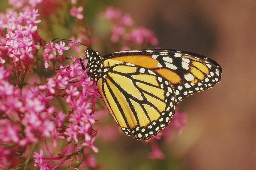
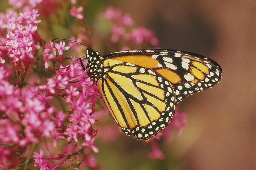
Dorada interpolacionih metoda

diff --git a/src/main.py b/src/main.py
@@ -10,7 +10,12 @@ def main():
     img = load_image("user/input/input_image.png")
     print(f"\nOriginal slika shape: {img.shape}")
 
-    opcija=int(input("Opcija: "))
+    print("\n========== Upscaling ==========")
+    print("1 Bilinearna interpolacija")
+    print("2 Bikubna interpolacija")
+    print("3 Spline interpolacija")
+    print("===============================")
+    opcija=int(input("Izaberite opciju za upscaling: "))
 
     # 1. Upscaling - OVO ĆE RADITI
     print("\nUpscaling...")
@@ -27,23 +32,34 @@ def main():
         img_spline = spline_interpolation(img)
         save_image(img_spline, "user/output/output_spline.png")
 
-    print("Upscaled slika sačuvana.")
+    print("Upscaled slika je sačuvana.")
 
-    # # 2. Rekonstrukcija - OVO ĆE RADITI
-    # print("Rekonstrukcija nedostajućih piksela...")
-    # h, w, _ = img.shape
-    # missing_mask = np.random.rand(h, w) > 0.9
-    # img_missing = img.copy()
-    # img_missing[missing_mask == 1] = 0
+    h, w, _ = img.shape
+    missing_mask = np.random.rand(h, w) > 0.9
+    img_missing = img.copy()
+    img_missing[missing_mask == 1] = 0
 
-    # recon_bilinear = bilinear_interpolation(img_missing, missing_mask=missing_mask)
-    # recon_bicubic = bicubic_interpolation(img_missing, missing_mask=missing_mask)
-    # recon_spline = spline_interpolation(img_missing, missing_mask=missing_mask)
+    print("\n===== Rekonstrukcija piksela =====")
+    print("1 Bilinearna rekonstrukcija")
+    print("2 Bikubna rekonstrukcija")
+    print("3 Spline rekonstrukcija")
+    print("===================================")
+    opcija=int(input("\nOpcija za rekonstrukciju piksela: "))
+    print("\nRekonstrukcija nedostajućih piksela...")
 
-    # save_image(recon_bilinear, "user/output_recon/recon_bilinear.png")
-    # save_image(recon_bicubic, "user/output_recon/recon_bicubic.png")
-    # save_image(recon_spline, "user/output_recon/recon_spline.png")
-    # print("Rekonstruisane slike sačuvane.")
+    if opcija==1:
+        recon_bilinear = bilinear_interpolation(img_missing, missing_mask=missing_mask)
+        save_image(recon_bilinear, "user/output_recon/recon_bilinear.png")
+
+    if opcija==2:
+        recon_bicubic = bicubic_interpolation(img_missing, missing_mask=missing_mask)
+        save_image(recon_bicubic, "user/output_recon/recon_bicubic.png")
+
+    if opcija==3:
+        recon_spline = spline_interpolation(img_missing, missing_mask=missing_mask)
+        save_image(recon_spline, "user/output_recon/recon_spline.png")
+
+    print("Rekonstruisana slika je sačuvana.\n")
 
 if __name__ == "__main__":
     main()

diff --git a/src/interpolation/bicubic.py b/src/interpolation/bicubic.py
@@ -1,4 +1,5 @@
 import numpy as np
+from collections import defaultdict
 
 def cubic_interpolate(p, x):
     """
@@ -169,7 +170,6 @@ def bicubic_reconstruct_channel_optimized(channel, missing_mask):
         return output
     
     # Grupiši po redovima za bolju lokalnost
-    from collections import defaultdict
     rows_dict = defaultdict(list)
     
     for idx in range(len(missing_y)):
@@ -188,21 +188,31 @@ def bicubic_reconstruct_channel_optimized(channel, missing_mask):
             neighborhood = channel[y_min:y_max, x_min:x_max]
             neighborhood_mask = missing_mask[y_min:y_max, x_min:x_max]
             
+            # Ravnaj oba niza za indeksiranje
+            neighborhood_flat = neighborhood.ravel()
+            neighborhood_mask_flat = neighborhood_mask.ravel()
+            
             # Ukloni nedostajuće piksele
-            valid_values = neighborhood[~neighborhood_mask]
+            valid_values = neighborhood_flat[~neighborhood_mask_flat]
             
             if len(valid_values) > 0:
                 # Ponderisani prosek (bliži pikseli imaju veću težinu)
-                # Kreiraj težine na osnovu udaljenosti
-                center_y, center_x = y - y_min, x - x_min
-                distances = np.sqrt(
-                    (np.arange(neighborhood.shape[0]) - center_y)**2 + 
-                    (np.arange(neighborhood.shape[1]) - center_x)**2
+                # Kreiraj mrežu koordinata za celu okolinu
+                y_coords, x_coords = np.meshgrid(
+                    np.arange(y_min, y_max),
+                    np.arange(x_min, x_max),
+                    indexing='ij'
                 )
-                distances = distances[~neighborhood_mask]
+                
+                # Izračunaj udaljenosti od centra
+                distances = np.sqrt((y_coords - y)**2 + (x_coords - x)**2)
+                distances_flat = distances.ravel()
+                
+                # Ukloni nedostajuće piksele iz udaljenosti
+                valid_distances = distances_flat[~neighborhood_mask_flat]
                 
                 # Inverzna težinska funkcija
-                weights = 1.0 / (distances + 1e-6)
+                weights = 1.0 / (valid_distances + 1e-6)
                 weights = weights / np.sum(weights)
                 
                 output[y, x] = np.dot(valid_values, weights)

diff --git a/src/interpolation/spline.py b/src/interpolation/spline.py
@@ -29,7 +29,7 @@ def spline_upscale_fast(image, scale_factor):
             x_new = np.linspace(0, w-1, new_w)
             
             for row in range(h):
-                # Koristi NumPy interpolaciju za brzinu (linear je dovoljno brz)
+                # Koristi NumPy interpolaciju za brzinu
                 temp[row, :] = np.interp(x_new, x_old, channel[row, :])
             
             # 2. Interpolacija po kolonama
@@ -108,12 +108,16 @@ def spline_reconstruct_channel_fast(channel, missing_mask):
             neighborhood = output[i_min:i_max, j_min:j_max]
             neighborhood_mask = remaining_mask[i_min:i_max, j_min:j_max]
             
+            # Ravnaj za indeksiranje
+            neighborhood_flat = neighborhood.ravel()
+            neighborhood_mask_flat = neighborhood_mask.ravel()
+            
             # Broj validnih suseda
-            valid_count = np.sum(~neighborhood_mask)
+            valid_count = np.sum(~neighborhood_mask_flat)
             
             if valid_count >= 3:
                 # Izračunaj vrednost na osnovu suseda
-                valid_values = neighborhood[~neighborhood_mask]
+                valid_values = neighborhood_flat[~neighborhood_mask_flat]
                 output[i, j] = np.mean(valid_values)
                 remaining_mask[i, j] = False
                 filled_count += 1
@@ -138,7 +142,11 @@ def spline_reconstruct_channel_fast(channel, missing_mask):
             neighborhood = output[i_min:i_max, j_min:j_max]
             neighborhood_mask = remaining_mask[i_min:i_max, j_min:j_max]
             
-            valid_values = neighborhood[~neighborhood_mask]
+            # Ravnaj za indeksiranje
+            neighborhood_flat = neighborhood.ravel()
+            neighborhood_mask_flat = neighborhood_mask.ravel()
+            
+            valid_values = neighborhood_flat[~neighborhood_mask_flat]
             
             if len(valid_values) > 0:
                 output[i, j] = np.mean(valid_values)

diff --git a/src/interpolation/bilinear.py b/src/interpolation/bilinear.py
@@ -2,7 +2,7 @@ import numpy as np
 
 def bilinear_interpolation(image, scale_factor=4, missing_mask=None):
     """
-    OPTIMIZOVANA bilinearna interpolacija sa vektorizacijom.
+    Optimizovana bilinearna interpolacija sa vektorizacijom.
     """
     if missing_mask is None:
         return bilinear_upscale_vectorized(image, scale_factor)
@@ -75,7 +75,7 @@ def bilinear_upscale_vectorized(image, scale_factor):
                wy[:, None] * wx * q11
 
 def bilinear_reconstruct_vectorized(image, missing_mask):
-    """Vektorizovana rekonstrukcija koristeći konvoluciju."""
+    """Vektorizovana rekonstrukcija."""
     if len(image.shape) == 3:
         h, w, c = image.shape
         result = np.zeros_like(image)
@@ -112,8 +112,12 @@ def bilinear_reconstruct_channel_vectorized(channel, missing_mask):
         neighborhood = channel[i_min:i_max, j_min:j_max]
         neighborhood_mask = missing_mask[i_min:i_max, j_min:j_max]
         
+        # Ravnaj za indeksiranje
+        neighborhood_flat = neighborhood.ravel()
+        neighborhood_mask_flat = neighborhood_mask.ravel()
+        
         # Ukloni nedostajuće piksele iz okoline
-        valid_values = neighborhood[~neighborhood_mask]
+        valid_values = neighborhood_flat[~neighborhood_mask_flat]
         
         if len(valid_values) > 0:
             output[i, j] = np.mean(valid_values)
